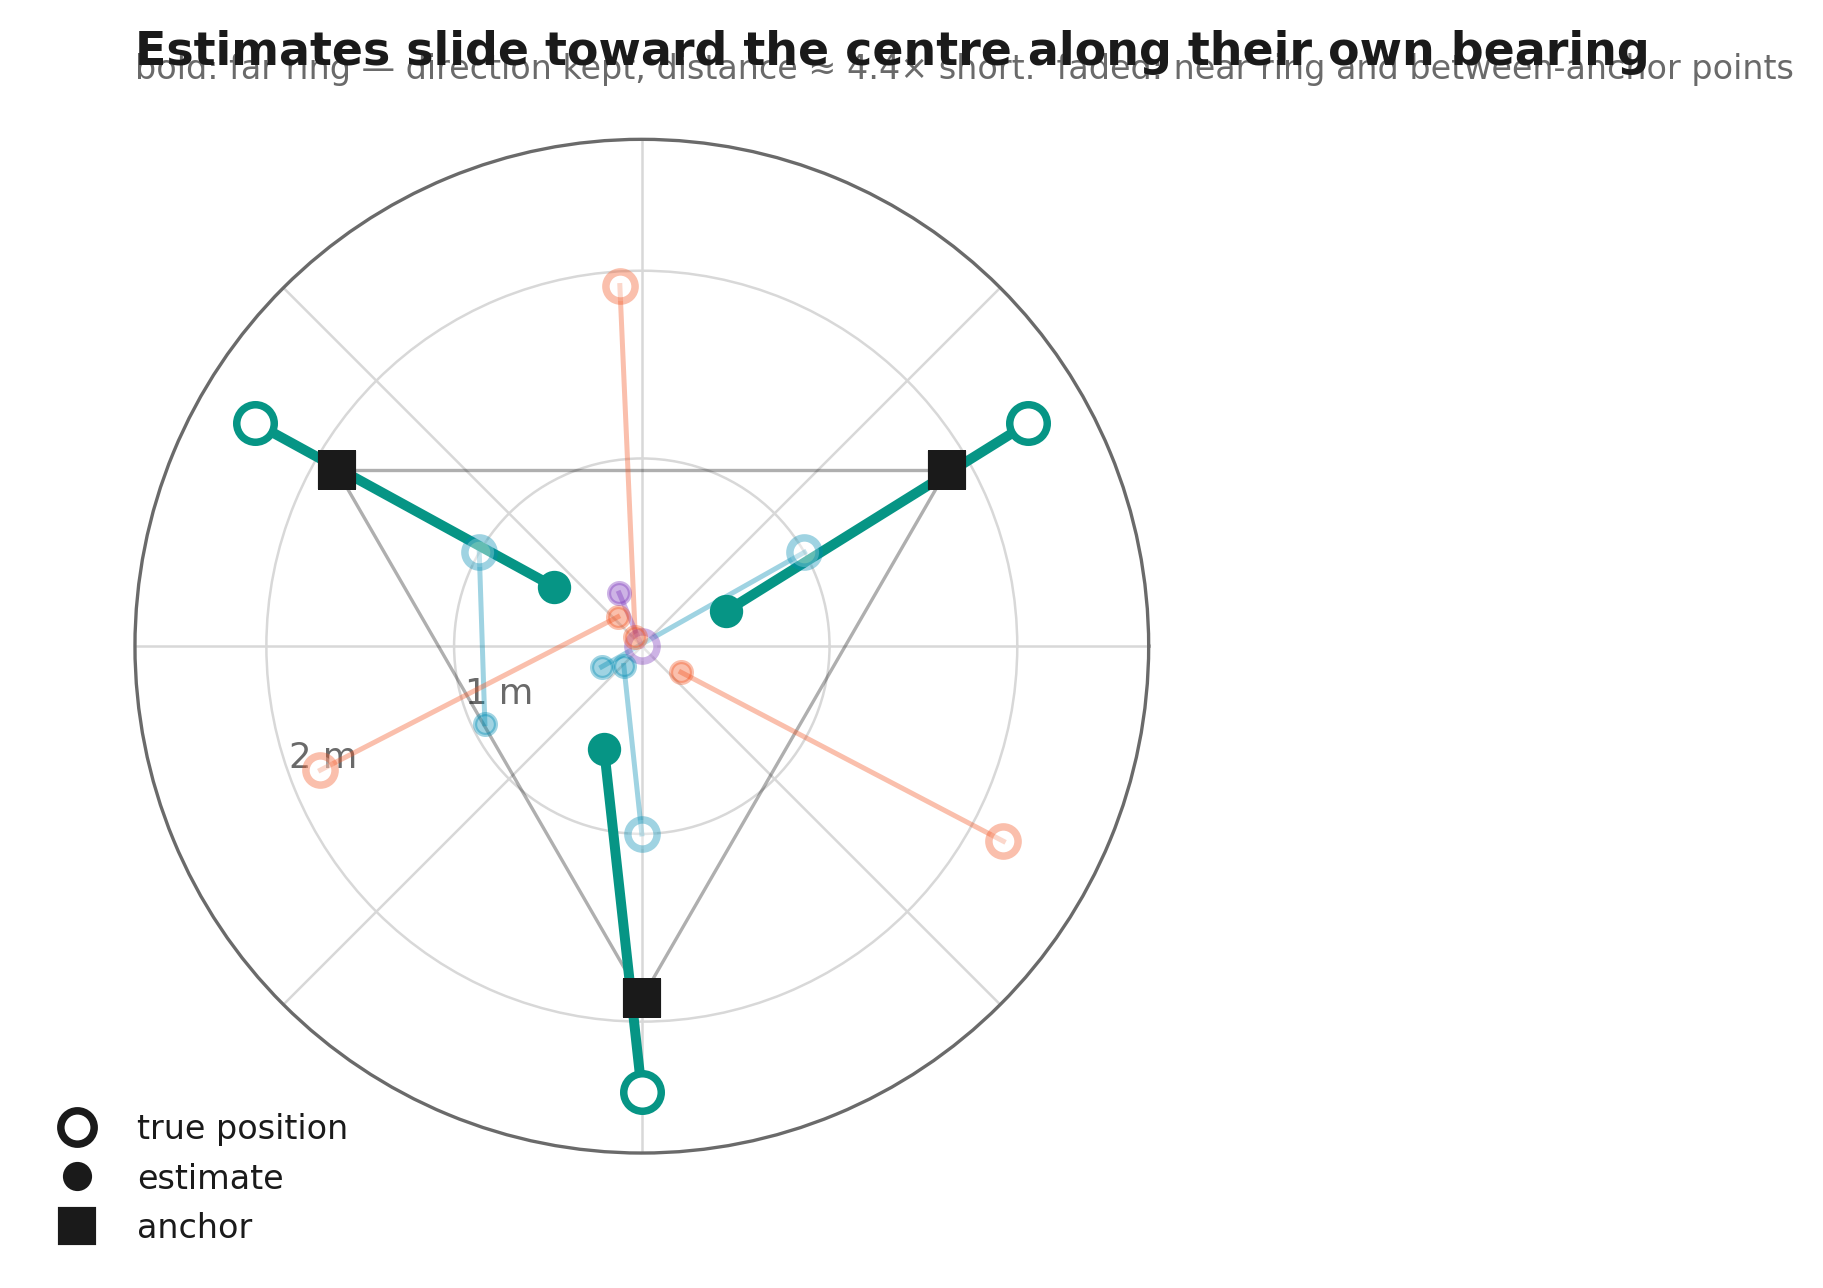
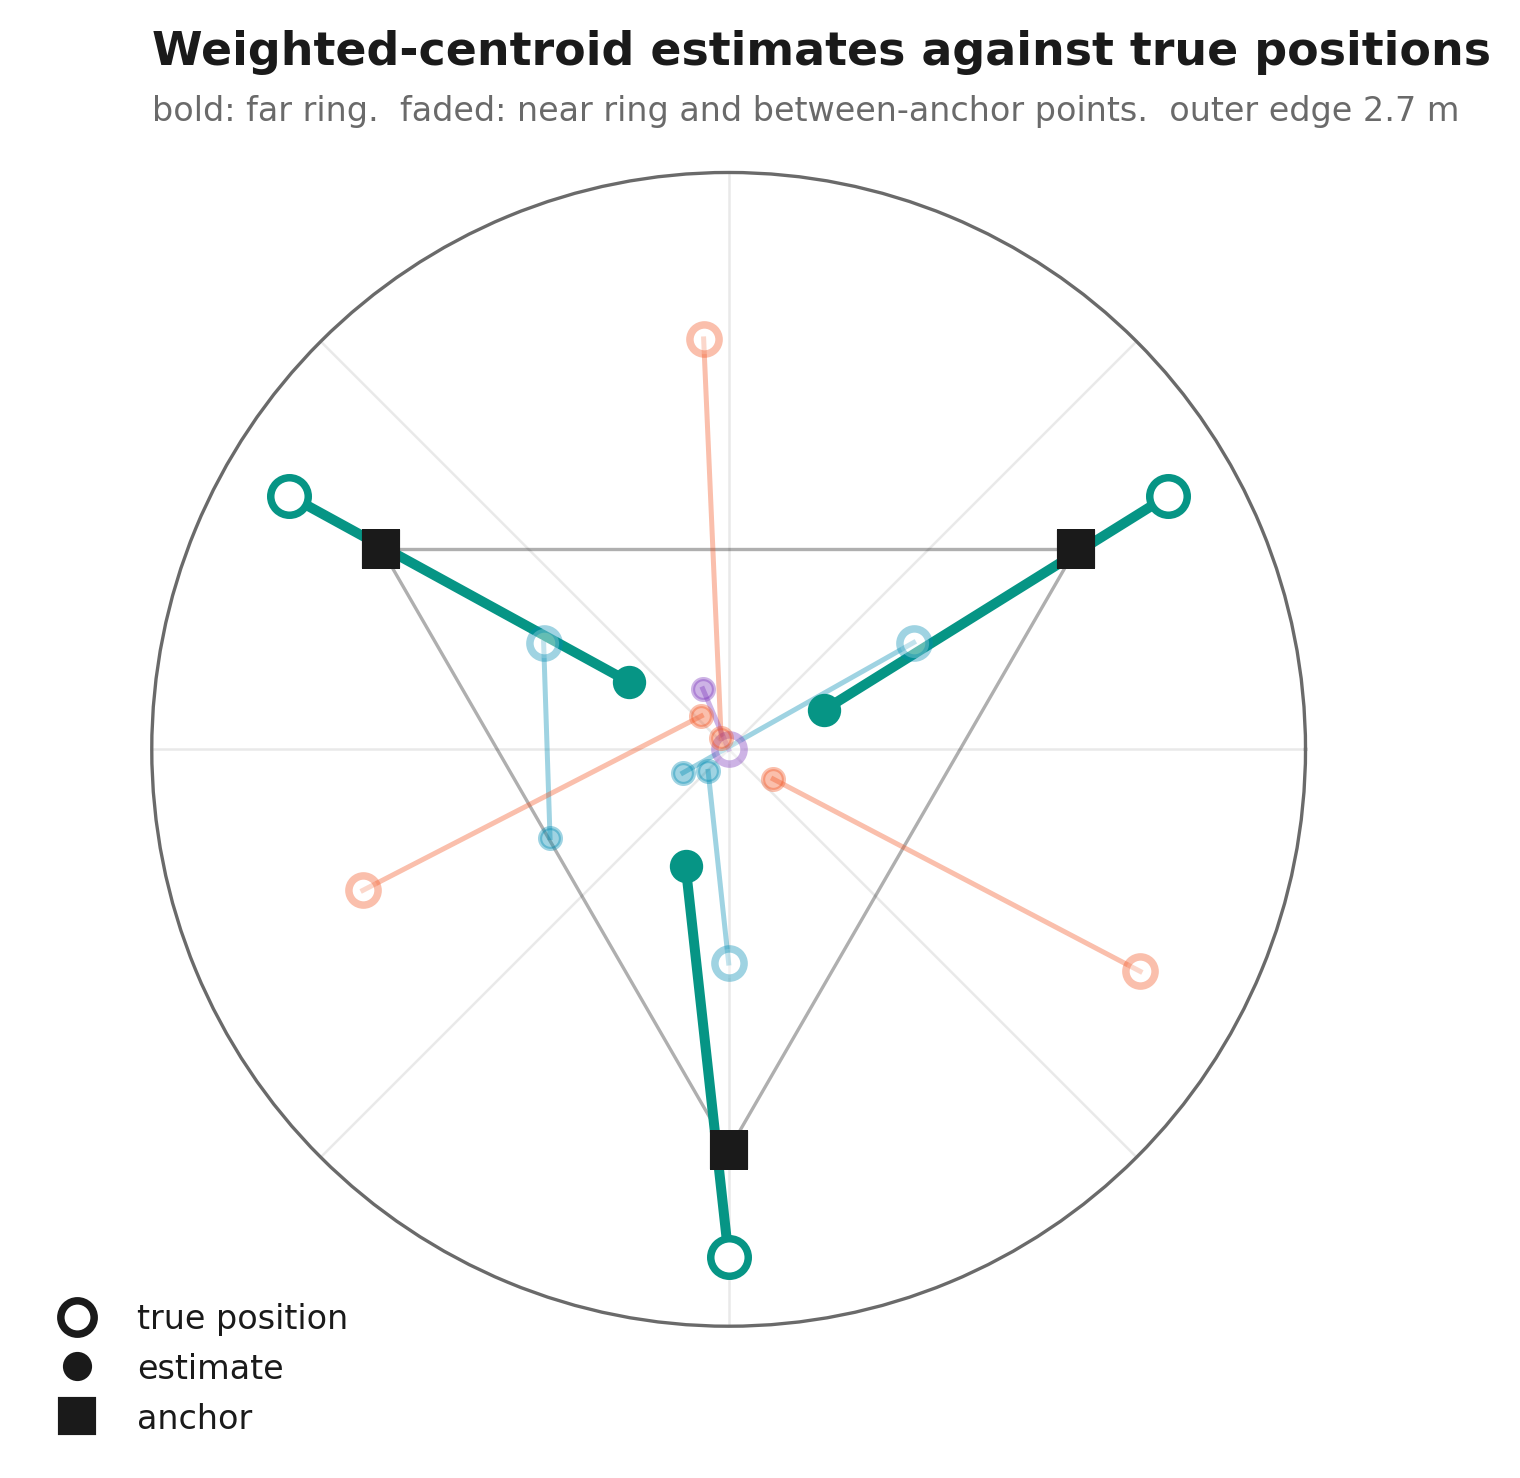
figures: drop the E7 range rings and fix the overlapping title
The concentric range rings competed with the data and their labels sat on top of
it, while the claim is that direction is kept and radius compressed, not about
absolute range. Rings dropped, angular spokes kept, scale moved to the subtitle.
Title and subtitle were also overlapping into illegibility.

Claude-Session: https://claude.ai/code/session_0199TePCg5kTEVBqaP392G4K

diff --git a/tools/make_calibration_figs.py b/tools/make_calibration_figs.py
@@ -173,8 +173,11 @@ def fig_e7_v2():
     ax = fig.add_subplot(111, projection="polar")
     ax.set_theta_zero_location("E"); ax.set_theta_direction(1)
     ax.set_rlim(0, 2.7); ax.set_rticks([1, 2]); ax.set_rlabel_position(200)
-    ax.set_xticklabels([]); ax.set_yticklabels(["1 m", "2 m"])
-    ax.grid(color=GRID, lw=.6)
+    ax.set_xticklabels([]); ax.set_yticklabels([])
+    # Range rings competed with the data and their labels sat on top of it; the
+    # claim is about direction kept and radius compressed, not absolute range.
+    ax.yaxis.grid(False)
+    ax.xaxis.grid(True, color=GRID, lw=.6, alpha=.55)
     for lab, pts, col in GROUPS:
         bold = lab.startswith("far")
         al, lw, ms_t, ms_e = (1.0, 2.4, 9, 7) if bold else (0.38, 1.2, 7, 5)
@@ -205,8 +208,8 @@ def fig_e7_v2():
     ax.plot([], [], "o", color=INK, ms=6, label="estimate")
     ax.plot([], [], "s", color=INK, ms=8, label="anchor")
     ax.legend(loc="lower left", bbox_to_anchor=(-0.12, -0.12), frameon=False, fontsize=8)
-    ax.set_title("Estimates slide toward the centre along their own bearing", loc="left", fontsize=11, pad=18)
-    ax.text(0.0, 1.06, "bold: far ring — direction kept, distance ≈ 4.4× short.  faded: near ring and between-anchor points",
+    ax.set_title("Weighted-centroid estimates against true positions", loc="left", fontsize=11, pad=26)
+    ax.text(0.0, 1.045, "bold: far ring.  faded: near ring and between-anchor points.  outer edge 2.7 m",
             transform=ax.transAxes, fontsize=8, color=MUTED, ha="left")
     save(fig, "E7_polar.png")
 
